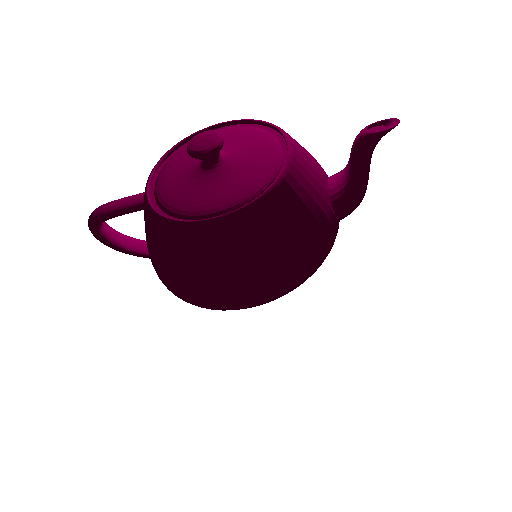
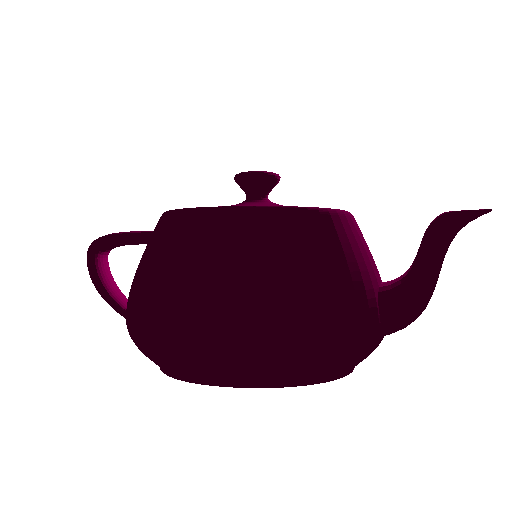
apply model transformation

Changed region(s): [[0.1562, 0.2188, 0.9688, 0.7812]]

diff --git a/src/graphics/screenshot.rs b/src/graphics/screenshot.rs
@@ -81,10 +81,10 @@ pub async fn run(screenshot_desc: ScreenshotDescriptor<'_>) {
     // TODO: Create model transformation from input data.
     let model_transformation = transformation::Transformation::new(
         &device,
-        cgmath::Quaternion::from_axis_angle(cgmath::Vector3::unit_x(), cgmath::Deg(90.0)),
+        cgmath::Quaternion::from_axis_angle(cgmath::Vector3::unit_x(), cgmath::Deg(-90.0)),
         cgmath::Vector3 {
             x: 0.0,
-            y: 0.0,
+            y: -5.0,
             z: 0.0,
         },
     );
@@ -92,7 +92,7 @@ pub async fn run(screenshot_desc: ScreenshotDescriptor<'_>) {
     // TODO: Create camera from input data.
     let camera = camera::Camera::new_perspective_camera(
         &device,
-        (8.0, -25.0, 25.0),
+        (8.0, 0.0, 25.0),
         (0.0, 0.0, 0.0),
         screenshot_desc.width as f32 / screenshot_desc.height as f32,
         cgmath::Deg(45.0),
